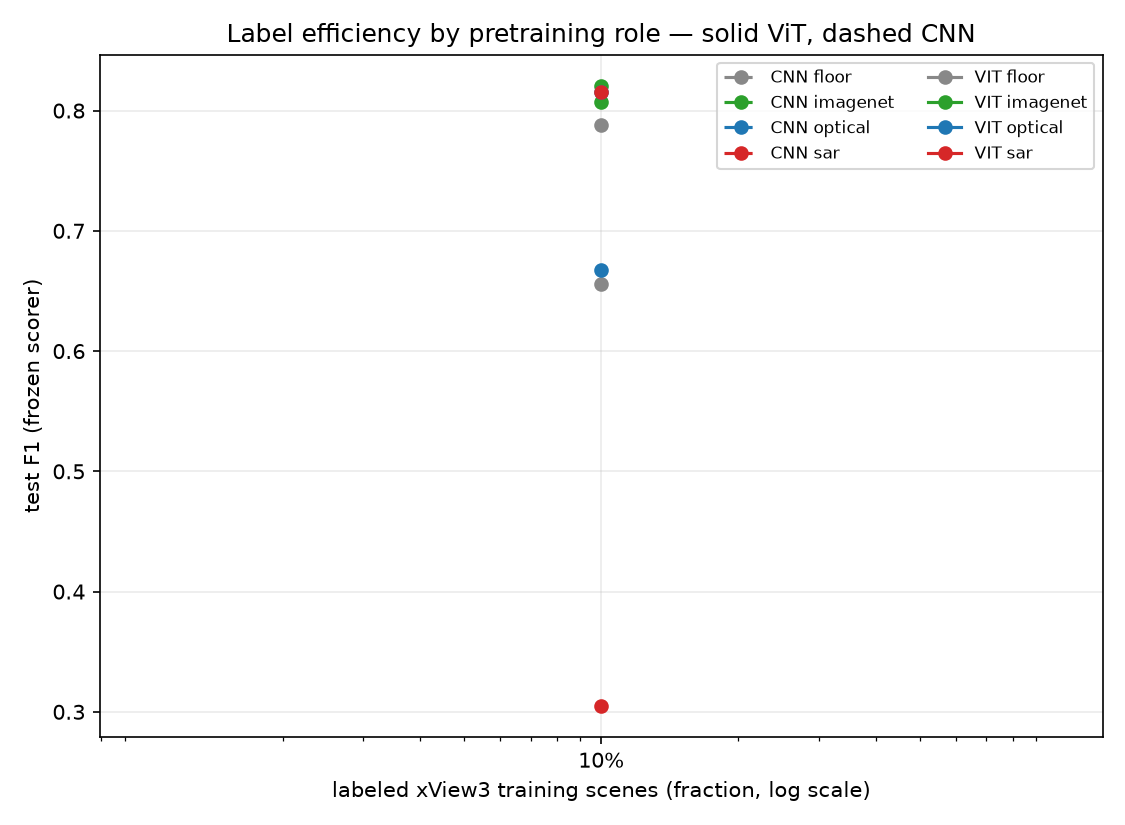
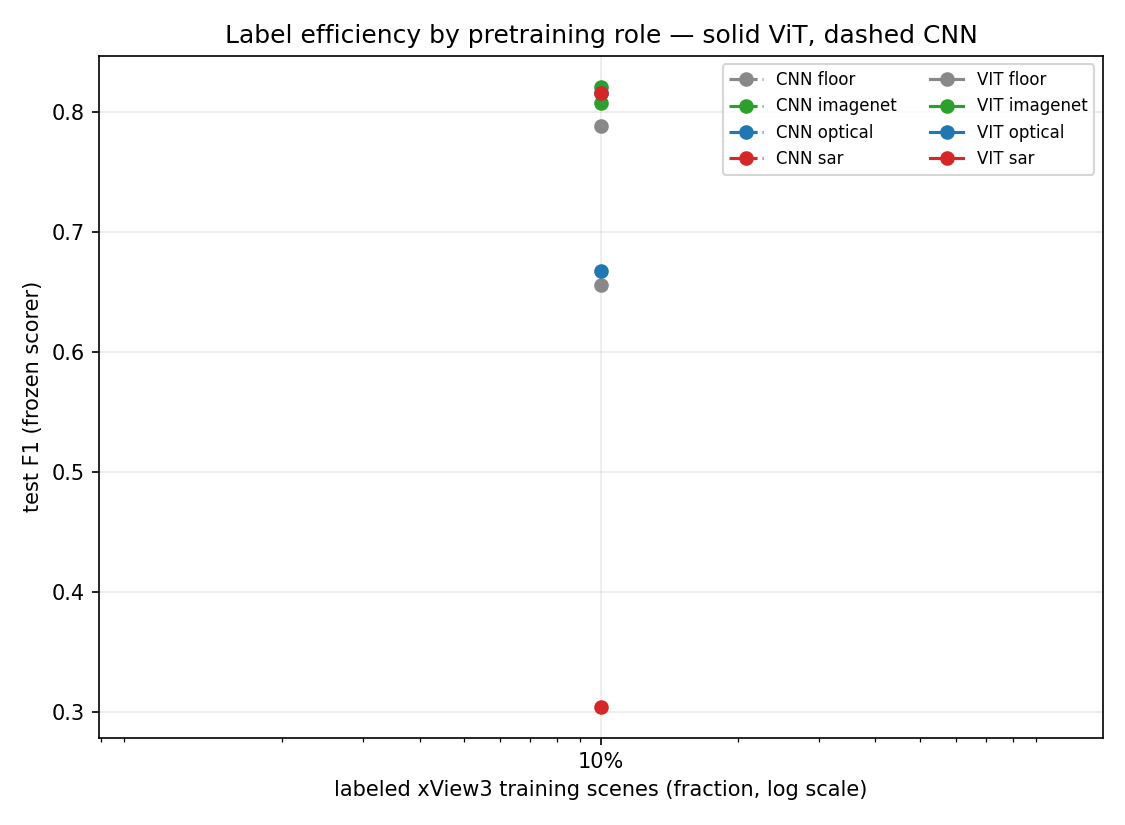
P7.2: publish preliminary f10 galleries and diagnostics

diff --git a/DEVPLAN.md b/DEVPLAN.md
@@ -29,9 +29,9 @@ Development plan for a coding agent (Claude Code or similar). Execute phases in 
 | 2 Scorer/decode/threshold | `sprint-2-scorer` + `sprint-2b-eval-hardening` | **DONE — scorer re-frozen after eval hardening; tagged `phase-2-done`** | `scorer.py` counts near-shore FPs and exposes per-scene aggregation; `threshold.py` owns dev threshold selection; `decode.py` rejects non-finite heatmaps; Phase-2 tests pass | — |
 | 3 Detector | `sprint-3-detector` + `sprint-3b` + `sprint-3c-optimizer-fix` | **DONE — detector frozen + tagged `phase-3-done`; P3.6 PASSED** | the optimizer fix and Option-B plan-literal 50-epoch/early-stop budget decision are merged; historical P3.6 dev F1: ViT floor 0.788 < SatDINO 0.835 < SARMAE 0.858; CNN floor 0.677 < BigEarthNet-S2 0.726 < BigEarthNet-S1 0.819 (`runs/p36_summary.json`) | — |
 | 4 FM+floor arms+refs | `sprint-4/5/6` | **PARTIAL** | seed-0 f10 cells are complete for Arms 1,2,3,5,6,7; R2 `yolo26-f100` and R3 `locateanything-zs` are complete; their result exports are under `results/` | f25/f50/f100 for the six retained arms; keep the frozen detector/scorer/splits unchanged |
-| 5 ImageNet arms+grid | `sprint-7-grid` + `sprint-7b-imagenet-arms` | **READY — unchanged 5070 Ti execution selected 2026-07-22** | exact Arms 4/8 implementation and all 88 guards pass; P100 probes were stopped at the throughput tripwire; the owner selected the already-validated one-GPU 5070 path with no DDP or recipe change | transfer/verify the ignored data, prior run records, and both amended ImageNet weight directories on the 5070 Ti, then drain the resumable 26-cell queue |
+| 5 ImageNet arms+grid | `sprint-7-grid` + `sprint-7b-imagenet-arms` | **PARTIAL — all eight f10 cells complete** | active seed-0 f10 exports cover all eight arms; exact Arms 4/8 implementation and all 88 guards pass; preliminary summaries are under `results/summary/` | drain the remaining 24 f25/f50/f100 cells on the unchanged one-GPU 5070 Ti path |
 | 6 Final eval | `sprint-8-final-eval` | NOT STARTED | once-only tripwire and frozen 50 eval IDs exist; no lockfile has been written | the 50 eval-final raster scenes are not present on this node and must be acquired/extracted before the one allowed evaluation |
-| 7 Analysis | `sprint-9-analysis` | NOT STARTED | — | — |
+| 7 Analysis | `sprint-9-analysis` | **NOT STARTED — preliminary diagnostics only** | weights-only gallery support, eight-arm f10 tables, threshold-transfer plot, and seven available checkpoint galleries are staged on the sprint branch | formal entry still requires Phase 6 final numbers; then complete the fixed 24-chip/eight-arm analysis and architecture comparison |
 | 8 Contingent ref | — | **REMOVED** | former R1 ImageNet-ConvNeXt role is now represented symmetrically by core Arms 4/8 | — |
 
 ### Known blockers — resolve before the affected phase (do not skip)
@@ -43,7 +43,7 @@ Development plan for a coding agent (Claude Code or similar). Execute phases in 
 - **Design amendment (human, 2026-07-22).** Replace the original random→LS-SSDD Arms 4/8 with matched ImageNet/generic-classification transfer: Arm 4 = `timm/vit_base_patch16_224.augreg_in1k`; Arm 8 = `timm/convnextv2_base.fcmae_ft_in1k`. Both end in supervised ImageNet-1K classification on generic natural images and transfer encoder weights only, but their training histories are not identical: the ViT checkpoint is supervised AugReg, whereas the ConvNeXt-V2 checkpoint includes FCMAE self-supervised pretraining followed by supervised IN1K fine-tuning. This is a disclosed cross-track limitation, not a within-track confound. The old LS f10 results are superseded and excluded from every current table/curve: `vitsup-f10-s0` dev/test F1 0.8518/0.7805 and `cnnsup-f10-s0` 0.7507/0.6644; their LS pretraining val losses (5.69e-10 and 0.0) motivated the overfit concern. Preserve them only under a clearly marked historical archive.
 - **Seed-count decision (human, 2026-07-22): seed 0 only.** The study matrix is 8 arms × 4 fractions = **32 core fine-tunes**. With the already-run R2/R3 references, the complete research plan is **34 experiments**. There are no seed reruns, seed bands, or error-bar claims.
 - **BLOCKER-6 — RESOLVED 2026-07-22 for f10 launch.** The actual host is 8× Tesla P100 PCIe 12 GB (Pascal sm_60). A repo-local Python 3.11 environment installed the committed `locks/env-p100node.txt` (torch 2.11.0+cu126); `torch.cuda.get_arch_list()` includes sm_60 and `gpu_sanity.py` passed finite fp16 matmul plus non-Flash SDPA. Full fp16-autocast forward/backward/AdamW probes passed at micro-batch 8: ViT allocated/reserved 3.796/4.078 GiB; ConvNeXt-V2 10.193/10.523 GiB. Real runs use accumulation 2, preserving the frozen effective batch 16 without editing `configs/detector.yaml`. At the verification snapshot, five GPUs were free and lockable; availability is dynamic, so re-run `gpu info` immediately before `gpu get --lock 5` (or a smaller available count). Once five are attached, use only the container-local indices 0–4 printed by `nvidia-smi -L`—never physical host IDs. The two replacement f10 wall times remain the throughput measurement gate; STOP if the refreshed forecast exceeds budget by >2×.
-- **BLOCKER-7 — RESOLVED 2026-07-22 by hardware move.** Real P100 f10 probes on the frozen recipe stabilized at 0.95 steps/s (ViT) and 0.20 steps/s (CNN), projecting 20.50 h and 97.36 h at the 50-epoch ceiling before dev evaluation. Both were interrupted gracefully during epoch 0 with no completion marker. The owner selected unchanged single-GPU execution on the already-validated RTX 5070 Ti; no DDP, effective-batch, detector, schedule, or scorer change is authorized. Completed 5070 timings project roughly 19–22 continuous compute days for the 26 remaining core cells after data/weight/run transfer. The P100 measurement remains provenance in `results/throughput/p100_f10_probe_2026-07-22.json`, not an active execution plan.
+- **BLOCKER-7 — RESOLVED 2026-07-22 by hardware move.** Real P100 f10 probes on the frozen recipe stabilized at 0.95 steps/s (ViT) and 0.20 steps/s (CNN), projecting 20.50 h and 97.36 h at the 50-epoch ceiling before dev evaluation. Both were interrupted gracefully during epoch 0 with no completion marker. The owner selected unchanged single-GPU execution on the already-validated RTX 5070 Ti; no DDP, effective-batch, detector, schedule, or scorer change is authorized. With all eight f10 cells now complete, 24 f25/f50/f100 cells remain on that unchanged path. The P100 measurement remains provenance in `results/throughput/p100_f10_probe_2026-07-22.json`, not an active execution plan.
 - **Scene-count decision (human, 2026-07-05): 150 study scenes** of the 554 available, selected stratified at seed 0 and frozen as 111 train / 23 dev / 16 test; all 50 verified IDs form `eval_final`. This split remains immutable. The old V100/P100 compute rationales are historical; current execution uses the unchanged one-GPU recipe on the RTX 5070 Ti.
 - **Expected CI color.** All freeze/split/parity guards exist and must be green. On this amendment branch, `test_fm_checkpoints_load` must cover six exact pretrained checkpoints; a failure or a still-four-checkpoint manifest is a STOP, not an expected skip.
 
@@ -105,7 +105,7 @@ The two tracks are matched by *role*: floor (1,5), optical remote-sensing pretra
 2. **Initialization is the only variable *within* a track; architecture is the only variable *across* matched roles.** Two backbone definitions only: ViT-B/16 (arms 1–4) and ConvNeXt-V2-Base (arms 5–8). Within each track, one head, one optimizer config, one augmentation policy, one decode config, one fine-tuning schedule, and the single seed 0 — every arm fine-tunes end-to-end, with no frozen/fine-tuned asymmetry. The head/optimizer/schedule are shared across *both* tracks too (only the backbone and its family adapter differ), so ViT-vs-CNN is fair. If you are tempted to tune something per-arm, stop — that breaks the study. All six pretrained initializations are downloaded and encoder-only; no LS-SSDD or other backbone training remains active.
 3. **Scene-level splits only.** No chip from a dev/test/eval scene may appear in any training or pretraining corpus. Membership is keyed on `scene_id`, recorded once in `data/splits.json`; every dataloader asserts membership at construction.
 4. **The ~50 human-verified xView3 validation scenes are touched exactly once,** by `src/eval/final_eval.py`, after the grid is complete. Tripwire: the script refuses to run without `--i-am-sure` and writes a timestamped lockfile on first use.
-5. **Execution hardware is a recipe-preserving choice.** The 26 remaining core cells are assigned to one RTX 5070 Ti (16 GB, Blackwell sm_120) using the already-validated single-GPU path: recipe batch 16 for ViT and CNN micro-batch 8 + accumulation 2 to preserve effective batch 16. The P100 environment remains verified provenance/contingency only; measured throughput failed the project tripwire and no P100 cell may resume without a new human decision. The V100 lock is historical and unverified. Hardware changes never authorize DDP, a different effective batch, or edits to `configs/detector.yaml`.
+5. **Execution hardware is a recipe-preserving choice.** The 24 remaining f25/f50/f100 core cells are assigned to one RTX 5070 Ti (16 GB, Blackwell sm_120) using the already-validated single-GPU path: recipe batch 16 for ViT and CNN micro-batch 8 + accumulation 2 to preserve effective batch 16. The P100 environment remains verified provenance/contingency only; measured throughput failed the project tripwire and no P100 cell may resume without a new human decision. The V100 lock is historical and unverified. Hardware changes never authorize DDP, a different effective batch, or edits to `configs/detector.yaml`.
 6. **Core arms vs. references are reported separately.** The eight core arms (1–8) go in the study tables and the two-track label-efficiency figure. R2 YOLO26 and R3 LocateAnything go in a separate references section for context; they are not on the controlled curves. There is no R1 and no challenge/leaderboard arm.
 7. **Determinism.** Every run takes `--seed`; seed torch, numpy, random, and dataloader workers (Lightning's `seed_everything(workers=True)`). Log the resolved config (full YAML), git SHA, and an environment hash into the run directory.
 8. **Run directories.** Every experiment writes `runs/<exp_id>/` with `config.yaml`, `metrics.csv` (per-epoch), `final_metrics.json`, `checkpoints/`, `log.txt`. Experiment IDs come from the manifest in Section 12 (Run manifest) — never invent ad-hoc names.
@@ -570,11 +570,11 @@ The historical V100 estimate is retired, and the real P100 f10 probes triggered 
 |---|---|---|---|
 | `vitin1k-f10-s0` | 1 | 10.25 h at 25 epochs; 20.50 h at 50 | stopped in epoch 0 |
 | `cnnin1k-f10-s0` | 1 | 48.68 h at 25 epochs; 97.36 h at 50 | stopped in epoch 0 |
-| Seed-0 core grid | 32 | six valid f10 complete; 26 remaining project to roughly 19–22 continuous days on one 5070 Ti | READY after transfer gates |
+| Seed-0 core grid | 32 | all eight f10 complete; 24 f25/f50/f100 cells remain on one 5070 Ti | IN PROGRESS |
 | Seed reruns | 0 | 0 | removed |
 | Backbone pretraining jobs | 0 | 0 | downloaded weights |
 | YOLO26 + LocateAnything | 2 | complete | recorded in result provenance |
-| **Active plan total** | **34 experiments** | unchanged one-GPU 5070 Ti queue selected | **READY at 26 remaining core cells** |
+| **Active plan total** | **34 experiments** | unchanged one-GPU 5070 Ti queue selected | **IN PROGRESS with 24 remaining core cells** |
 
 The probes are approximately 5.9× (ViT) and 15.0× (CNN) slower than comparable completed 5070 f10 runs, exceeding the declared >2× tripwire. The owner therefore selected the unchanged single-GPU 5070 path. This is a hardware/scheduling decision only: the detector, global effective batch 16, optimizer, schedule, seed, splits, and scorer remain frozen. Before launch, transfer and verify the ignored payload plus both revised ImageNet checkpoints; no training begins from the partial P100 probe directories.
 

diff --git a/results/summary/README.md b/results/summary/README.md
@@ -1,0 +1,76 @@
+# Preliminary 10%-label analysis
+
+These artifacts summarize the complete seed-0, 10%-label (`f10`) wave for the
+active eight-arm study. They are preliminary point estimates, not the final
+label-efficiency result: the 25%, 50%, and 100% cells are still outstanding,
+and the once-only 50-scene final evaluation remains untouched.
+
+Every test score below was evaluated at the threshold selected on dev and then
+frozen. Test thresholds were not retuned.
+
+| Track | Initialization | Dev F1 | Frozen threshold | Test F1 |
+|---|---|---:|---:|---:|
+| ViT | Random floor | 0.8554 | 0.7373 | 0.7881 |
+| ViT | SatDINO optical | 0.8766 | 0.5835 | 0.8158 |
+| ViT | SARMAE SAR | 0.8803 | 0.4023 | 0.8154 |
+| ViT | ImageNet-1K | 0.8940 | 0.6245 | 0.8073 |
+| CNN | Random floor | 0.7530 | 0.7378 | 0.6559 |
+| CNN | BigEarthNet-S2 optical | 0.7678 | 0.8008 | 0.6675 |
+| CNN | BigEarthNet-S1 SAR | 0.8337 | 0.8169 | 0.3047 |
+| CNN | ImageNet-1K | 0.8966 | 0.1304 | 0.8208 |
+
+## Figures and tables
+
+- [`grid.csv`](grid.csv) is the active eight-arm f10 result table.
+- [`label_efficiency.png`](label_efficiency.png) plots the eight available
+  test points. It is not yet a label-efficiency curve because only one label
+  fraction is complete.
+- [`threshold_transfer.png`](threshold_transfer.png) compares best dev F1 with
+  test F1 at the frozen dev threshold. BigEarthNet-S1 is the only flagged
+  transfer gap.
+- [`slice_metrics.csv`](slice_metrics.csv) and
+  [`role_deltas.csv`](role_deltas.csv) contain the refreshed active-arm
+  diagnostics and within-track contrasts.
+- [`chip_gallery.png`](chip_gallery.png) is a ground-truth SAR-chip gallery.
+- [`prediction_galleries/`](prediction_galleries/) contains operating-threshold
+  overlays for the seven weights-only checkpoints available in the analysis
+  package. Green circles are accepted ground-truth vessels and red crosses are
+  predictions. The same four curated dev chips are used for every model.
+
+The ImageNet CNN result is included in the quantitative tables, but it has no
+prediction gallery because its completed weights-only checkpoint was not in
+the package used for rendering.
+
+## Preliminary reading
+
+- The strongest reportable f10 test point is ImageNet CNN at `0.8208`.
+- SatDINO and SARMAE are effectively tied on test (`0.8158` and `0.8154`) and
+  each improves on the ViT random floor by about `0.028` F1.
+- BigEarthNet-S2 improves on the CNN random floor by about `0.012` F1.
+- BigEarthNet-S1's reportable `0.3047` test F1 is a threshold-transfer warning,
+  not evidence by itself that its detections are intrinsically poor. Its dev
+  confidence scale did not transfer to test; the frozen-threshold score remains
+  the protocol-compliant result.
+- Dark-vessel support is zero on the train-derived dev/test split by design.
+  Dark-vessel recall can only be measured during final evaluation. Near-shore
+  support is sparse, so those slice values should not be overinterpreted.
+
+## Reproduction
+
+The quantitative summaries can be rebuilt from the committed result exports:
+
+```bash
+python -m src.analysis.curves all \
+  --runs-root results \
+  --out-csv results/summary/grid.csv \
+  --out-png results/summary/label_efficiency.png
+
+python -m src.analysis.error_slices \
+  --results-root results \
+  --out-dir results/summary
+```
+
+Prediction galleries are produced by `src/analysis/qualitative.py` from the
+uncommitted SAR chips and weights-only checkpoints. Checkpoints, chips, the
+10+ GB source archive, and local inference dependencies are intentionally not
+versioned.

diff --git a/README.md b/README.md
@@ -159,17 +159,19 @@ cold-start runbook holds the live status ledger. Current state:
 - **AMENDED — 2026-07-22**: Arms 4/8 changed from random→LS-SSDD to the two downloaded ImageNet-1K
   checkpoints above; the old `vitsup-f10-s0` and `cnnsup-f10-s0` cells are superseded and excluded.
   Seed reruns and R1 are removed. The target is 32 seed-0 core cells plus R2/R3 = 34 experiments.
-- **PARTIAL — core grid**: the six unaffected seed-0 f10 cells (arms 1,2,3,5,6,7) remain valid.
-  The replacement ImageNet loaders, exact-byte pins, and the complete 88-test pre-launch suite
-  (including all six value-sensitive checkpoint guards) passed on 2026-07-22. R2/R3 records exist.
+- **PARTIAL — core grid**: all eight seed-0 f10 cells are complete and exported. The active
+  preliminary table, threshold-transfer diagnostic, and SAR prediction galleries are under
+  [`results/summary/`](results/summary/). The replacement ImageNet loaders, exact-byte pins, and
+  the complete 88-test pre-launch suite (including all six value-sensitive checkpoint guards)
+  passed on 2026-07-22. R2/R3 records exist.
 - **EXECUTION DECISION — RTX 5070 Ti**: measured P100 throughput failed the >2× compute tripwire,
   so those probes were stopped and archived. The owner selected unchanged one-GPU execution on the
-  5070 Ti—no DDP and no recipe change. There are 26 core cells left; completed-run timings project
+  5070 Ti—no DDP and no recipe change. There are 24 core cells left; completed-run timings project
   roughly 19–22 continuous compute days after data, weights, and prior run records are restored.
 - **READY — Phase 6 tripwires** (`src/eval/final_eval.py`: `--i-am-sure` + lockfile, hard
   preconditions). The 50 raw eval-scene rasters are not in the current transfer payload, and final
-  evaluation remains untouched. Phase 7 analysis is also pending; do not promote P3.6 or partial f10
-  observations to final-paper findings.
+  evaluation remains untouched. Formal Phase 7 still waits on final evaluation; the committed f10
+  diagnostics are preliminary and must not be promoted to final-paper findings.
 
 ```
 JHU-xView3/

diff --git a/docs/decisions.md b/docs/decisions.md
@@ -277,3 +277,29 @@ is gitignored, so the committed log lives here.
   regime (their losses were finite throughout, and the parity sweep bounds
   the counterfactual difference at input-rounding scale, well under run-level
   cuDNN nondeterminism). Do not silently rerun completed cells for this.
+
+## Preliminary f10 analysis package (2026-07-25)
+
+- All eight active seed-0 f10 result exports are now available. The reportable
+  best-dev / frozen-threshold test F1 pairs are ViT random `0.8554/0.7881`,
+  SatDINO `0.8766/0.8158`, SARMAE `0.8803/0.8154`, ImageNet ViT
+  `0.8940/0.8073`, CNN random `0.7530/0.6559`, BigEarthNet-S2
+  `0.7678/0.6675`, BigEarthNet-S1 `0.8337/0.3047`, and ImageNet CNN
+  `0.8966/0.8208`.
+- Thresholds remain dev-selected and frozen for test. BigEarthNet-S1 is the
+  only threshold-transfer flag: its dev threshold `0.8169` produces a
+  `0.5291` dev-to-test F1 gap. This is reported as a calibration/threshold
+  transfer warning; the protocol-compliant test score is not replaced by a
+  test-tuned operating point.
+- The analysis package supplied seven weights-only checkpoints. Strict
+  architecture reconstruction and inference produced operating-threshold
+  overlays on the same four curated dev chips for every available checkpoint.
+  ImageNet CNN has quantitative results but no gallery because its completed
+  checkpoint was absent from the package.
+- The active table, preliminary one-fraction plot, threshold-transfer plot,
+  slice/delta tables, ground-truth SAR gallery, and seven prediction galleries
+  are committed under `results/summary/`. The source archive, checkpoints,
+  SAR chips, and local inference dependencies remain unversioned.
+- These are preliminary diagnostics only. Formal Phase 7 still waits for the
+  Phase 6 final-evaluation outputs, and no claim about dark-vessel recall is
+  available because the train-derived dev/test splits have zero dark support.
